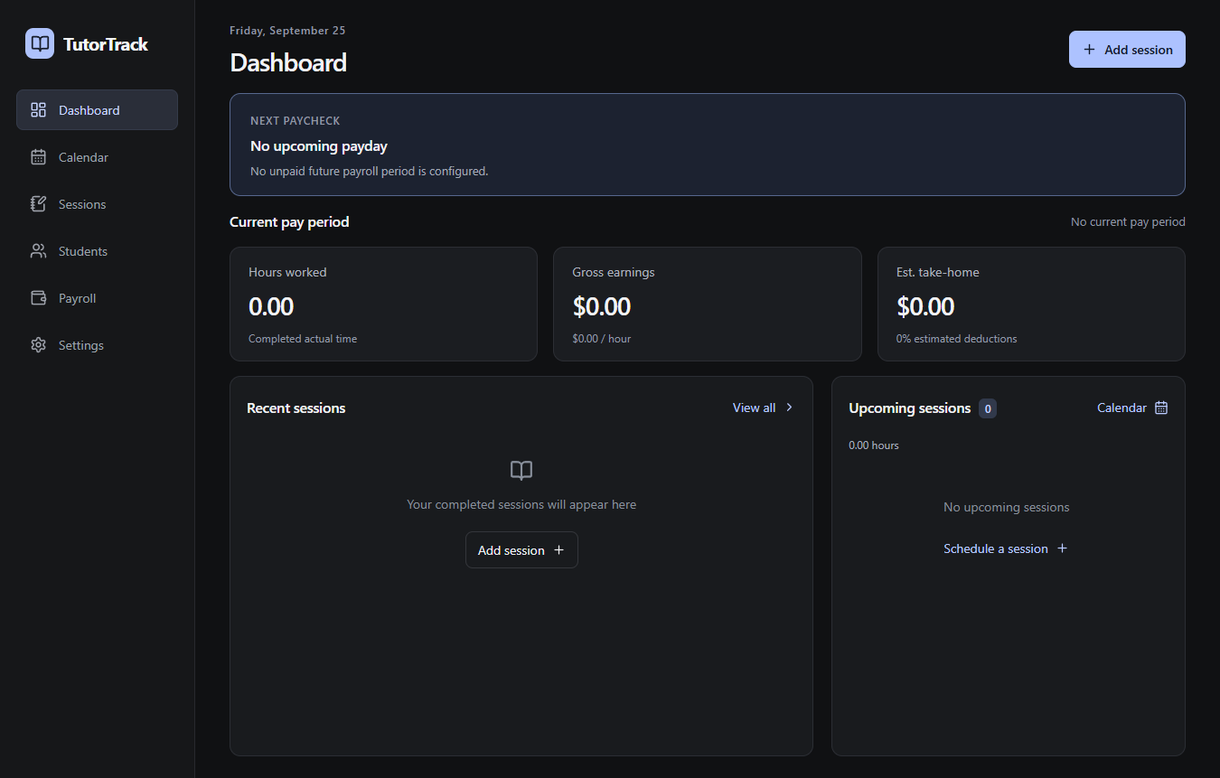
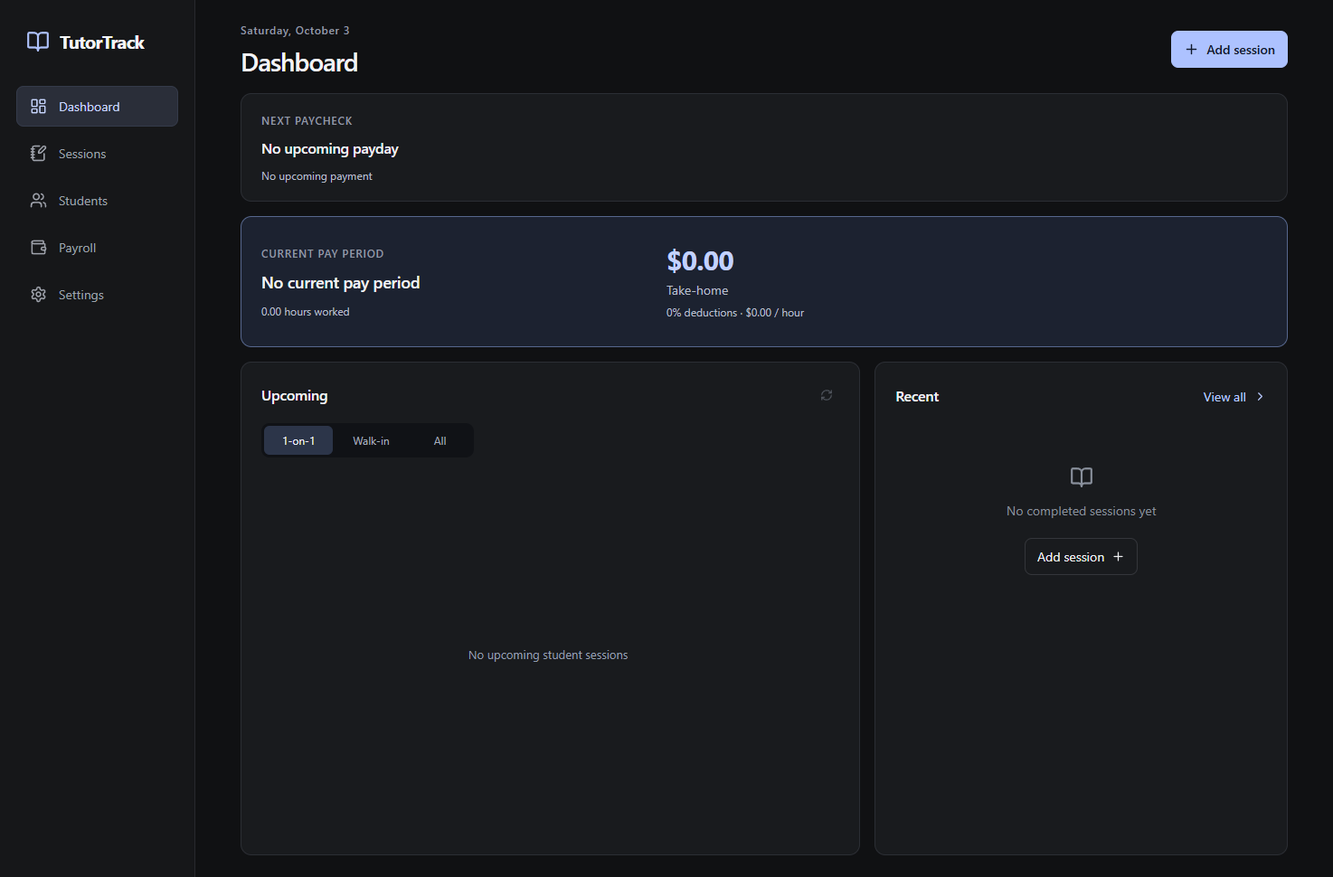
Refine dashboard summaries and upcoming session filters

diff --git a/src/App.tsx b/src/App.tsx
@@ -1,3 +1,4 @@
+import {filterUpcoming} from './dashboard';
 import {CalendarSync} from './CalendarSync';
 import {CoursePicker} from './CoursePicker';
 import {SessionSchedule} from './SessionSchedule';
@@ -14,20 +15,38 @@ function Field({label,children}:{label:string;children:ReactNode}){const fieldId
 function Modal({title,children,close}:{title:string;children:ReactNode;close:()=>void}){const ref=useRef<HTMLDialogElement>(null);useEffect(()=>{ref.current?.showModal();},[]);return <dialog ref={ref} onCancel={close}><header><h2>{title}</h2><button type="button" className="icon" onClick={close} aria-label="Close" title="Close"><X size={19}/></button></header>{children}</dialog>;}
 function Empty({text,action,click}:{text:string;action?:string;click?:()=>void}){return <div className="empty"><BookOpen size={26}/><p>{text}</p>{action&&<button onClick={click} className="secondary">{action}<Plus size={15}/></button>}</div>;}
 export default function App(){
+const periodHourTarget:number|null=null;
+const [upcomingFilter,setUpcomingFilter]=useState<'one'|'walk'|'all'>('one');
 const [page,setPage]=useState<Page>('Dashboard');const [error,setError]=useState('');const [notice,setNotice]=useState('');const [studentEdit,setStudentEdit]=useState<Student|'new'|null>(null);const [sessionEdit,setSessionEdit]=useState<Session|'new'|null>(null);const [profile,setProfile]=useState<Student|null>(null);const [payEdit,setPayEdit]=useState<Period|null>(null);const [search,setSearch]=useState('');const [status,setStatus]=useState('');const [course,setCourse]=useState('');const [order,setOrder]=useState('newest');const [showArchived,setShowArchived]=useState(false);
 const data=useLiveQuery(async()=>({students:await db.students.toArray(),courses:await db.courses.toArray(),sessions:(await db.sessions.toArray()).filter(s=>!s.deleted),periods:await db.periods.toArray(),payments:await db.payments.toArray(),settings:await db.settings.get('settings')||defaults,sync:await db.sync.toArray()}));
 useEffect(()=>{initialize().catch(e=>setError(String(e)));},[]);
 async function act(fn:()=>Promise<unknown>){try{setError('');await fn();}catch(e){setError(e instanceof Error?e.message:String(e));}}
 useEffect(()=>{if(!notice)return;const timer=setTimeout(()=>setNotice(''),4000);return()=>clearTimeout(timer);},[notice]);
 if(!data)return <div className="loading">Opening TutorTrack…</div>;
-const {students,courses,sessions,periods,payments,settings, sync:records}=data;const studentName=(s:Session)=>students.find(x=>x.id===s.studentId)?.name||'Assign student';const courseName=(id:string)=>courseLabel(courses.find(x=>x.id===id));const today=localDate(new Date());const current=periods.find(p=>p.start<=today&&p.end>=today);const periodSessions=(p:Period)=>sessions.filter(s=>periodFor(s,periods)?.id===p.id);const periodTotal=totals(current?periodSessions(current):[],settings);const upcoming=sessions.filter(s=>s.status==='scheduled'&&!s.eventCancelled&&s.scheduledEnd>now()).sort((a,b)=>a.scheduledStart.localeCompare(b.scheduledStart));const upcomingDays=[...new Set(upcoming.map(s=>localDate(s.scheduledStart)))];const nextSubmit=periods.filter(p=>p.submit>=today).sort((a,b)=>a.submit.localeCompare(b.submit))[0];const nextPay=periods.filter(p=>p.pay>=today&&payments.find(x=>x.periodId===p.id)?.status!=='paid').sort((a,b)=>a.pay.localeCompare(b.pay))[0];
+const {students,courses,sessions,periods,payments,settings, sync:records}=data;const studentName=(s:Session)=>students.find(x=>x.id===s.studentId)?.name||'Assign student';const courseName=(id:string)=>courseLabel(courses.find(x=>x.id===id));const today=localDate(new Date());const current=periods.find(p=>p.start<=today&&p.end>=today);const periodSessions=(p:Period)=>sessions.filter(s=>periodFor(s,periods)?.id===p.id);const periodTotal=totals(current?periodSessions(current):[],settings);const upcoming=sessions.filter(s=>s.status==='scheduled'&&!s.eventCancelled&&s.scheduledEnd>now()).sort((a,b)=>a.scheduledStart.localeCompare(b.scheduledStart));const visibleUpcoming=filterUpcoming(upcoming,courses,upcomingFilter);const upcomingDays=[...new Set(visibleUpcoming.map(s=>localDate(s.scheduledStart)))];const nextSubmit=periods.filter(p=>p.submit>=today).sort((a,b)=>a.submit.localeCompare(b.submit))[0];const nextPay=periods.filter(p=>p.pay>=today&&payments.find(x=>x.periodId===p.id)?.status!=='paid').sort((a,b)=>a.pay.localeCompare(b.pay))[0];
 const paycheck=nextPaycheck(sessions,periods,payments,settings,today);
 const paymentStatus=(p:Period)=>{const saved=payments.find(x=>x.periodId===p.id);return saved?.status==='paid'?'paid':'upcoming';};
 const openPage=(p:Page)=>{setPage(p);setSearch('');setProfile(null);};
 const list=(ss:Session[],empty='No sessions yet')=><div className="session-list">{ss.length?ss.map(s=><button className="session-row" key={s.id} onClick={()=>setSessionEdit(s)}><span className={'status-icon '+s.status}>{s.status==='completed'?<Check size={17}/>:s.status==='cancelled'?<X size={17}/>:<Clock size={17}/>}</span><span className="session-person"><strong>{studentName(s)}</strong><small>{page==='Dashboard'?(courses.find(c=>c.id===s.courseId)?.code||courseName(s.courseId)):<>{courseName(s.courseId)}{s.topics?' · '+s.topics:''}</>}</small></span><span className="session-date">{fmtDate(s.scheduledStart)}<small>{fmtTime(s.scheduledStart)} – {fmtTime(s.scheduledEnd)}</small></span>{page!=='Dashboard'&&<span className="session-pay">{s.status!=='completed'&&<span className={'badge '+s.status}>{s.status}</span>}<small>{s.status==='completed'?hours(duration(s.actualStart,s.actualEnd))+' h actual':hours(duration(s.scheduledStart,s.scheduledEnd))+' h scheduled'}</small></span>}<ChevronRight size={16}/></button>):<Empty text={empty} action={page==='Students'&&profile?undefined:'Add session'} click={()=>setSessionEdit('new')}/>}</div>;
 const metric=(label:string,value:string,sub?:string)=><div className="metric"><span>{label}</span><strong>{value}</strong>{sub&&<small>{sub}</small>}</div>;
 return <div className="app"><aside><a className="brand" href="#" onClick={e=>{e.preventDefault();openPage('Dashboard');}}><span className="brand-icon"><BookOpen size={21}/></span>TutorTrack</a><nav>{nav.map(([p,Icon])=><button key={p} title={p} onClick={()=>openPage(p)} className={page===p?'selected':''} aria-current={page===p?'page':undefined}><Icon size={19}/>{p}</button>)}</nav></aside><main><header className="page-header"><div><div className="eyebrow">{new Date().toLocaleDateString('en-CA',{weekday:'long',month:'long',day:'numeric'})}</div><h1>{page}</h1></div><div className="header-actions">{page!=='Settings'&&<button className="primary" onClick={()=>page==='Students'?setStudentEdit('new'):setSessionEdit('new')}><Plus size={17}/>{page==='Students'?'Add student':'Add session'}</button>}</div></header>{error&&<div className="alert" role="alert">{error}<button className="icon" onClick={()=>setError('')} aria-label="Dismiss error"><X size={16}/></button></div>}{notice&&<div className="notice" role="status">{notice}</div>}
-{page==='Dashboard'&&<div className="dashboard-content"><section className="panel paycheck-panel" aria-label="Next paycheck"><div><span className="eyebrow">NEXT PAYCHECK</span><h2>{paycheck?fmtDate(paycheck.period.pay):'No upcoming payday'}</h2>{paycheck?<p className="hint">{hours(paycheck.mins)} hours · {fmtDate(paycheck.period.start)} – {fmtDate(paycheck.period.end)}</p>:<p className="hint">No unpaid future payroll period is configured.</p>}</div>{paycheck&&<><div className="paycheck-amount"><strong>{money(paycheck.net)}</strong><span>Take-home</span><small>{money(paycheck.gross)} gross</small></div><button className="secondary" onClick={()=>setPayEdit(paycheck.period)}>View paycheck<ArrowUpRight size={16}/></button></>}</section><div className="section-line"><h2>Current pay period</h2><span>{current?fmtDate(current.start)+' – '+fmtDate(current.end):'No current pay period'}</span></div><div className="metrics dashboard-period-metrics">{metric('Hours worked',hours(periodTotal.mins))}{metric('Take-home',money(periodTotal.net),settings.deduction+'% deductions · '+money(settings.wage)+' / hour')}</div><div className="dashboard-bottom"><section className="panel"><div className="section-line"><h2>Recent sessions</h2><button className="text-button" onClick={()=>openPage('Sessions')}>View all<ChevronRight size={15}/></button></div>{list(sessions.filter(s=>s.status==='completed').sort((a,b)=>b.actualStart.localeCompare(a.actualStart)).slice(0,2),'Your completed sessions will appear here')}</section><section className="panel next-panel"><div className="section-line"><h2>Upcoming sessions <span className="count-badge">{upcoming.length}</span></h2></div><CalendarSync compact onConnect={()=>openPage('Settings')}/><p className="upcoming-summary">{hours(upcoming.reduce((sum,s)=>sum+duration(s.scheduledStart,s.scheduledEnd),0))} hours</p><div className="upcoming-agenda">{upcomingDays.length?upcomingDays.map(day=><div className="agenda-day" key={day}><h3>{day===today?'Today':new Date(day+'T12:00:00').toLocaleDateString('en-CA',{weekday:'short',month:'short',day:'numeric'})}</h3>{upcoming.filter(s=>localDate(s.scheduledStart)===day).map(s=><button className="agenda-session" key={s.id} onClick={()=>setSessionEdit(s)}><span className="agenda-time">{fmtTime(s.scheduledStart)}<small>{fmtTime(s.scheduledEnd)}</small></span><span><strong>{studentName(s)}</strong><small>{courseName(s.courseId)}</small></span><ChevronRight size={15}/></button>)}</div>):<div className="empty compact"><p>No upcoming sessions</p><button className="text-button" onClick={()=>setSessionEdit('new')}>Schedule a session<Plus size={15}/></button></div>}</div></section></div></div>}
+{page==='Dashboard'&&<div className="dashboard-content dashboard-refreshed">
+<section className="panel dashboard-summary next-pay-summary" aria-label="Next paycheck">
+  <div><span className="eyebrow">NEXT PAYCHECK</span><h2>{paycheck?fmtDate(paycheck.period.pay):'No upcoming payday'}</h2><p className="hint">{paycheck?<>{hours(paycheck.mins)} hours · {fmtDate(paycheck.period.start)} – {fmtDate(paycheck.period.end)}</>:'No upcoming payment'}</p></div>
+  {paycheck&&<><div className="summary-amount"><strong>{money(paycheck.net)}</strong><span>Take-home</span><small>{money(paycheck.gross)} gross</small></div><button className="text-button summary-action" onClick={()=>setPayEdit(paycheck.period)}>View paycheck<ArrowUpRight size={15}/></button></>}
+</section>
+<section className="panel dashboard-summary current-pay-summary" aria-label="Current pay period">
+  <div><span className="eyebrow">CURRENT PAY PERIOD</span><h2>{current?fmtDate(current.start)+' – '+fmtDate(current.end):'No current pay period'}</h2><p className="hint">{hours(periodTotal.mins)} hours worked</p></div>
+  <div className="summary-amount"><strong>{money(periodTotal.net)}</strong><span>Take-home</span><small>{settings.deduction}% deductions · {money(settings.wage)} / hour</small></div>
+  {periodHourTarget!==null&&<div className="period-progress"><div><span>{Number(hours(periodTotal.mins))}h logged</span><span>{periodHourTarget}h max</span></div><progress aria-label="Logged hours in current pay period" max={periodHourTarget} value={Math.min(periodHourTarget,periodTotal.mins/60)}/></div>}
+</section>
+<div className="dashboard-bottom">
+<section className="panel next-panel"><div className="section-line"><h2>Upcoming</h2><CalendarSync compact onConnect={()=>openPage('Settings')}/></div>
+<div className="upcoming-filters" role="group" aria-label="Upcoming session type">{(['one','walk','all'] as const).map(value=><button key={value} aria-pressed={upcomingFilter===value} onClick={()=>setUpcomingFilter(value)}>{value==='one'?'1-on-1':value==='walk'?'Walk-in':'All'}</button>)}</div>
+<div className="upcoming-agenda">{upcomingDays.length?upcomingDays.map(day=><div className="agenda-day" key={day}><h3>{day===today?'Today':new Date(day+'T12:00:00').toLocaleDateString('en-CA',{weekday:'short',month:'short',day:'numeric'})}</h3>{visibleUpcoming.filter(s=>localDate(s.scheduledStart)===day).map(s=><button className="agenda-session" key={s.id} onClick={()=>setSessionEdit(s)}><span className="agenda-time">{fmtTime(s.scheduledStart)}<small>{fmtTime(s.scheduledEnd)}</small></span><span><strong>{studentName(s)}</strong><small>{courses.find(c=>c.id===s.courseId)?.code||courseName(s.courseId)}</small></span><ChevronRight size={15}/></button>)}</div>):<div className="agenda-empty">{upcomingFilter==='one'?'No upcoming student sessions':upcomingFilter==='walk'?'No upcoming walk-in sessions':'No upcoming sessions'}</div>}</div>
+</section>
+<section className="panel recent-panel"><div className="section-line"><h2>Recent</h2><button className="text-button" onClick={()=>openPage('Sessions')}>View all<ChevronRight size={15}/></button></div>{list(sessions.filter(s=>s.status==='completed').sort((a,b)=>b.actualStart.localeCompare(a.actualStart)).slice(0,2),'No completed sessions yet')}</section>
+</div></div>}
 {page==='Sessions'&&<><div className="filters"><label className="search"><Search size={17}/><input aria-label="Search sessions by student" placeholder="Search student" value={search} onChange={e=>setSearch(e.target.value)}/></label><select aria-label="Course filter" value={course} onChange={e=>setCourse(e.target.value)}><option value="">All courses</option>{courses.map(c=><option key={c.id} value={c.id}>{courseLabel(c)}</option>)}</select><select aria-label="Status filter" value={status} onChange={e=>setStatus(e.target.value)}><option value="">All statuses</option><option>scheduled</option><option>completed</option><option>cancelled</option></select><select aria-label="Sort order" value={order} onChange={e=>setOrder(e.target.value)}><option value="newest">Newest first</option><option value="oldest">Oldest first</option></select></div>{sessions.some(s=>!s.studentId)&&<p className="hint">Imported sessions need a student and course. Open each session to assign them.</p>}<section className="panel">{list(sessions.filter(s=>studentName(s).toLowerCase().includes(search.toLowerCase())&&(!course||s.courseId===course)&&(!status||s.status===status)).sort((a,b)=>(order==='newest'?-1:1)*a.scheduledStart.localeCompare(b.scheduledStart)),'No matching sessions')}</section></>}
 {page==='Students'&&<>{profile?<><button className="text-button back" onClick={()=>setProfile(null)}><ChevronLeft size={16}/>All students</button><section className="panel"><div className="section-line"><div><h2>{profile.name}</h2><p className="muted">{courseName(profile.courseId)}{profile.archived?' · Archived':''}</p></div><button onClick={()=>setStudentEdit(students.find(s=>s.id===profile.id)||profile)}>Edit student</button></div>{profile.note&&<p>{profile.note}</p>}<div className="metrics profile-metrics">{metric('Completed sessions',String(sessions.filter(s=>s.studentId===profile.id&&s.status==='completed').length))}{metric('Actual hours',hours(totals(sessions.filter(s=>s.studentId===profile.id),settings).mins))}{metric('Gross earnings',money(totals(sessions.filter(s=>s.studentId===profile.id),settings).gross))}</div></section><h2 className="spaced">Upcoming sessions</h2><section className="panel">{list(sessions.filter(s=>s.studentId===profile.id&&s.status==='scheduled'&&s.scheduledStart>=now()).sort((a,b)=>a.scheduledStart.localeCompare(b.scheduledStart)))}</section><h2 className="spaced">Complete history</h2><section className="panel">{sessions.filter(s=>s.studentId===profile.id).sort((a,b)=>b.scheduledStart.localeCompare(a.scheduledStart)).map(s=><div key={s.id}>{list([s])}{(s.topics||s.notes)&&<div className="history-notes">{s.topics&&<p><strong>Topics</strong> {s.topics}</p>}{s.notes&&<p><strong>Notes</strong> {s.notes}</p>}</div>}</div>)}</section></>:<><div className="filters"><label className="search"><Search size={17}/><input aria-label="Search students" placeholder="Search students" value={search} onChange={e=>setSearch(e.target.value)}/></label><label className="checkbox"><input type="checkbox" checked={showArchived} onChange={e=>setShowArchived(e.target.checked)}/>Include archived</label></div><div className="student-grid">{students.filter(s=>(showArchived||!s.archived)&&s.name.toLowerCase().includes(search.toLowerCase())).map(s=><button className="student-card" key={s.id} onClick={()=>setProfile(s)}><div className="section-line"><span className="avatar">{s.name.split(' ').map(v=>v[0]).slice(0,2).join('')}</span><ChevronRight size={17}/></div><h2>{s.name}</h2><p>{courseName(s.courseId)}</p><div className="student-footer"><span>{hours(totals(sessions.filter(x=>x.studentId===s.id),settings).mins)} h completed</span>{s.archived&&<span>Archived</span>}</div></button>)}</div>{!students.filter(s=>(showArchived||!s.archived)&&s.name.toLowerCase().includes(search.toLowerCase())).length&&<section className="panel"><Empty text="Keep your students and session history together" action="Add student" click={()=>setStudentEdit('new')}/></section>}</>}</>}
 {page==='Payroll'&&<><div className="section-line"><h2>Payroll periods</h2><span className="muted">CAD</span></div><section className="panel table-panel"><table><thead><tr><th>Covered dates</th><th>Hours</th><th>Gross</th><th>Est. take-home</th><th>Pay date</th><th>Status</th></tr></thead><tbody>{periods.slice().sort((a,b)=>a.start.localeCompare(b.start)).map(p=>{const t=totals(periodSessions(p),settings);return <tr key={p.id}><td><button className="cell-button" onClick={()=>setPayEdit(p)}>{fmtDate(p.start)} – {fmtDate(p.end)}</button></td><td>{hours(t.mins)}</td><td>{money(t.gross)}<small>{money(t.deductions)} est. deductions</small></td><td>{money(t.net)}</td><td><strong className="pay-date">Pay {fmtDate(p.pay)}</strong><small>Submit {fmtDate(p.submit)}</small></td><td><select className={'payment-status '+paymentStatus(p)} aria-label={'Payment status for '+fmtDate(p.start)+' – '+fmtDate(p.end)} value={paymentStatus(p)} onChange={e=>void act(()=>setPaymentStatus(p.id,e.target.value as Payment['status']))}>{['upcoming','paid'].map(v=><option key={v} value={v}>{v[0].toUpperCase()+v.slice(1)}</option>)}</select></td></tr>;})}</tbody></table></section></>}

diff --git a/src/style.css b/src/style.css
@@ -52,3 +52,19 @@ main:has(.dashboard-content){height:100vh;box-sizing:border-box;display:flex;fle
 @media(max-width:650px){.session-row,.dashboard-content .session-row{grid-template-columns:30px minmax(0,1fr)}.session-row .session-date{grid-column:2;width:auto}.session-row .session-pay{grid-column:2;width:auto;text-align:left}.session-row>svg{display:none}}
 
 .dashboard-period-metrics{grid-template-columns:repeat(2,minmax(0,1fr))}@media(max-width:650px){.dashboard-period-metrics{grid-template-columns:1fr}}
+
+/* Dashboard: shared summary grid and restrained session controls. */
+.brand-icon{background:transparent;color:#aec2fb;width:28px;height:28px;border-radius:0}.brand-icon svg{width:26px;height:26px}
+.dashboard-refreshed>.dashboard-summary{display:grid;grid-template-columns:minmax(0,40fr) minmax(0,34fr) minmax(0,26fr);align-items:center;gap:16px;padding:18px 22px;margin:0;flex-shrink:0;min-height:120px}
+.dashboard-refreshed>.current-pay-summary{min-height:145px;background:#1c2230;border-color:#56678d}
+.dashboard-summary .eyebrow{font-size:12px;font-weight:600;letter-spacing:.8px}.dashboard-summary h2{font-size:16px;margin:9px 0;font-weight:600}.current-pay-summary h2{font-size:18px}.dashboard-summary .hint{margin:0;font-size:12px;color:#b7bdc9}
+.summary-amount{display:flex;flex-direction:column;gap:5px;min-width:0}.summary-amount strong{font-size:28px;font-weight:700;letter-spacing:-.6px;font-variant-numeric:tabular-nums;line-height:1.2}.current-pay-summary .summary-amount strong{font-size:30px;color:#c3d2ff}.summary-amount span{font-size:14px;color:#b7bdc9}.summary-amount small{font-size:12px;color:#b7bdc9}.summary-action{justify-self:end;white-space:nowrap}
+.period-progress{align-self:end;padding-bottom:4px}.period-progress>div{display:flex;justify-content:space-between;gap:8px;color:#b7c3df;font-size:12px;margin-bottom:8px}.period-progress progress{display:block;width:100%;height:4px;border:0;border-radius:6px;overflow:hidden;background:#343c4c;accent-color:#b8caff}.period-progress progress::-webkit-progress-bar{background:#343c4c}.period-progress progress::-webkit-progress-value{background:#b8caff}.period-progress progress::-moz-progress-bar{background:#b8caff}
+.dashboard-refreshed>.dashboard-bottom{display:grid;grid-template-columns:minmax(0,3fr) minmax(0,2fr);gap:16px}.dashboard-refreshed .dashboard-bottom>.panel{padding:22px}.dashboard-refreshed .section-line{margin-bottom:17px}.dashboard-refreshed .next-panel>.section-line{position:relative;min-height:28px;flex-shrink:0}
+.upcoming-filters{display:flex;align-self:flex-start;background:#101216;border-radius:9px;padding:3px;gap:2px;margin:0 0 18px;flex-shrink:0}.upcoming-filters button{border:0;background:transparent;color:#a5adbd;padding:7px 20px;min-width:68px;font-size:12px;line-height:18px;border-radius:6px}.upcoming-filters button[aria-pressed=true]{background:#2c3549;color:#eef1f8}.upcoming-filters button:hover{background:#252c39}
+.dashboard-refreshed .agenda-day h3{font-size:13px;font-weight:500;margin:8px 0 7px}.dashboard-refreshed .agenda-session{grid-template-columns:100px minmax(0,1fr) 15px;padding:14px 0 20px;gap:13px}.dashboard-refreshed .agenda-session strong{font-size:14px;font-weight:550}.dashboard-refreshed .agenda-session small{font-size:12px;margin-top:6px}.dashboard-refreshed .agenda-time{font-size:13px}.agenda-empty{display:grid;place-items:center;min-height:150px;height:100%;color:#959fae;font-size:13px;text-align:center}
+.calendar-sync-compact{position:relative;margin:0!important;padding:0!important;border:0!important}.calendar-sync-compact .inline{gap:0}.calendar-sync-compact button.sync-trigger{width:28px;height:28px;padding:7px;color:#929baa;background:transparent;border:0}.calendar-sync-compact button.sync-trigger:hover{color:#c3d2ff}.calendar-sync-compact .sync-feedback,.calendar-sync-compact .form-error{position:absolute;right:0;top:32px;background:#20242c;border:1px solid #343b4a;border-radius:6px;padding:8px 10px;max-width:300px;min-width:160px;font-size:12px;z-index:5}.sync-trigger[aria-busy=true] svg{animation:sync-spin 1s linear infinite}@keyframes sync-spin{to{transform:rotate(360deg)}}
+@media(prefers-reduced-motion:reduce){.sync-trigger[aria-busy=true] svg{animation:none}}
+@media(max-width:1100px){.dashboard-refreshed>.dashboard-bottom{grid-template-columns:minmax(0,1.2fr) minmax(0,1fr)}.dashboard-refreshed .dashboard-bottom>.panel{padding:18px}.dashboard-refreshed .session-row{grid-template-columns:30px minmax(0,1fr) 135px 12px;gap:8px}.dashboard-refreshed .session-date{width:135px!important}.dashboard-refreshed .agenda-session{grid-template-columns:80px minmax(0,1fr) 12px}}
+@media(max-width:900px){main:has(.dashboard-refreshed){height:auto;min-height:100vh;overflow:visible}.dashboard-refreshed>.dashboard-bottom{grid-template-columns:1fr}.dashboard-refreshed .upcoming-agenda{max-height:400px}.dashboard-refreshed>.dashboard-summary{grid-template-columns:1fr 1fr}.period-progress{grid-column:1/-1;margin-top:10px}.summary-action{grid-column:1/-1;justify-self:start}.dashboard-refreshed .session-row{grid-template-columns:30px minmax(0,1fr) 155px 16px}.dashboard-refreshed .session-date{width:155px!important}}
+@media(max-width:600px){.dashboard-refreshed>.dashboard-summary{padding:16px;gap:12px}.summary-amount strong{font-size:26px}.current-pay-summary .summary-amount strong{font-size:28px}.dashboard-refreshed .session-row{grid-template-columns:30px minmax(0,1fr)}.dashboard-refreshed .session-date{grid-column:2;width:auto!important}.upcoming-filters button{padding:7px 16px}}

diff --git a/src/CalendarSync.tsx b/src/CalendarSync.tsx
@@ -21,9 +21,9 @@ export function CalendarSync({compact=false,onConnect}:{compact?:boolean;onConne
   }
   return <section className={'calendar-sync'+(compact?' calendar-sync-compact':'')} aria-label="Google Calendar sync">
     <div className="inline">
-      <button className={compact?'text-button':'secondary'} disabled={busy||!api||!status} onClick={()=>status?.connected?void sync():compact&&onConnect?onConnect():setSetup(!setup)}><RefreshCw size={16}/>{busy?'Syncing…':status?.connected?'Sync Google Calendar':'Connect Google Calendar'}</button>
+      <button className={compact?'text-button sync-trigger':'secondary'} title={busy?'Syncing…':status?.connected?'Sync Google Calendar':'Connect Google Calendar'} aria-label={busy?'Syncing Google Calendar':status?.connected?'Sync Google Calendar':'Connect Google Calendar'} aria-busy={busy} disabled={busy||!api||!status} onClick={()=>status?.connected?void sync():compact&&onConnect?onConnect():setSetup(!setup)}><RefreshCw size={compact?14:16}/>{!compact&&(busy?'Syncing…':status?.connected?'Sync Google Calendar':'Connect Google Calendar')}</button>
       {!compact&&status?.connected&&<button className="text-button" disabled={busy} onClick={()=>setSetup(!setup)}>Connection</button>}
-      {report&&<span role="status">{report.added?`${report.added} event${report.added===1?'':'s'} added`:'No new events'}{report.issues.length?' · Review needed':''}</span>}
+      {report&&<span className="sync-feedback" role="status">{report.added?`${report.added} event${report.added===1?'':'s'} added`:'No new events'}{report.issues.length?' · Review needed':''}</span>}
     </div>
     {error&&<p role="alert" className="form-error">{error}</p>}
     {setup&&api&&<div className="calendar-connection">

diff --git a/tests/minimal-ui.test.tsx b/tests/minimal-ui.test.tsx
@@ -110,11 +110,11 @@ it("totals upcoming hours across pay-period boundaries without counting them as 
     })),
   );
   const html = screen("Dashboard");
-  expect(html).toContain('class="upcoming-summary">2.00');
-  expect(html).toContain('class="count-badge">2');
+  expect((html.match(/class="agenda-session"/g) || []).length).toBe(2);
+
   const metrics = html
-    .split('<div class="metrics dashboard-period-metrics">')[1]
-    .split('<div class="dashboard-bottom">')[0];
+    .split('aria-label="Current pay period">')[1]
+    .split('</section>')[0];
   expect(metrics).toContain("1.00");
   expect(metrics).toContain("$25.00");
 });
@@ -130,8 +130,8 @@ it("includes both weeks of the current pay period", () => {
   expect(html).toContain("Current pay period");
   expect(html).toContain("Jan 4 – Jan 17");
   const metrics = html
-    .split('<div class="metrics dashboard-period-metrics">')[1]
-    .split('<div class="dashboard-bottom">')[0];
+    .split('aria-label="Current pay period">')[1]
+    .split('</section>')[0];
   expect(metrics).toContain("3.00");
   expect(metrics).not.toContain("Gross earnings");
   expect(metrics).toContain("$67.50");
@@ -149,7 +149,8 @@ it("renders an empty dashboard without invented records", () => {
       settings: defaults,
     });
   const html = renderToStaticMarkup(<App />);
-  expect(html).toContain("No upcoming sessions");
+  expect(html).toContain("No upcoming student sessions");
   expect(html).toContain("No upcoming payday");
   expect(html).not.toContain("Example Learner");
 });
+

diff --git a/tests/dashboard.test.ts b/tests/dashboard.test.ts
@@ -1,0 +1,18 @@
+import {describe,it,expect} from 'vitest';
+import {filterUpcoming} from '../src/dashboard';
+import type {Session,Course} from '../src/data';
+const courses=[{id:'group',name:'Walk-in tutoring',archived:true},{id:'individual',name:'Algebra'}] as Course[];
+const sessions=[{id:'first',courseId:'individual'},{id:'second',courseId:'group'},{id:'third',courseId:'individual'}] as Session[];
+describe('upcoming category filters',()=>{
+ it('keeps the original chronological order and records when switching categories',()=>{
+ expect(filterUpcoming(sessions,courses,'one').map(s=>s.id)).toEqual(['first','third']);
+ expect(filterUpcoming(sessions,courses,'walk').map(s=>s.id)).toEqual(['second']);
+ expect(filterUpcoming(sessions,courses,'all')).toEqual(sessions);
+ expect(sessions).toHaveLength(3);
+ });
+ it('recognizes an existing archived course without confusing a student name or partial course match',()=>{
+ const variants=[{id:'group',name:' Walk–in Tutoring '},{id:'individual',name:'Walk-in tutoring preparation'}] as Course[];
+ expect(filterUpcoming(sessions,variants,'walk').map(s=>s.id)).toEqual(['second']);
+ expect(filterUpcoming(sessions,[],'one')).toEqual(sessions);
+ });
+});

diff --git a/src/dashboard.ts b/src/dashboard.ts
@@ -1,0 +1,7 @@
+import type {Session,Course} from './data';
+export type UpcomingFilter='one'|'walk'|'all';
+const normalized=(value:string)=>value.trim().toLowerCase().replace(/[‐‑‒–—]/g,'-');
+export function filterUpcoming(sessions:Session[],courses:Course[],filter:UpcomingFilter){
+  const walkCourses=new Set(courses.filter(course=>normalized(course.name)==='walk-in tutoring').map(course=>course.id));
+  return sessions.filter(session=>{const walk=walkCourses.has(session.courseId);return filter==='all'||(filter==='walk'?walk:!walk);});
+}

diff --git a/README.md b/README.md
@@ -11,6 +11,13 @@ An offline desktop app for tracking tutoring sessions, students and pay.
 - Mark pay periods as paid and back up records to JSON.
 - Import Google Calendar bookings with a [read-only sync button](docs/GOOGLE-CALENDAR.md).
 
+## Latest update
+
+The dashboard now puts the current pay period first visually, with a smaller next-paycheck summary and clearer take-home amounts. Upcoming sessions sit beside recent activity, with wider 1-on-1, Walk-in and All filters. Calendar sync is a small refresh button; dates and times stay aligned across the lists.
+
+The original dark colors, type and navigation icons are preserved. This repository starts empty and includes no personal records, pay settings, calendar credentials or private schedules. The Walk-in filter uses courses named “Walk-in tutoring”; it does not install a recurring schedule.
+
 ## Built with
 
 React · TypeScript · Electron · Vite · Tailwind CSS · Dexie · Zod · Vitest
+
